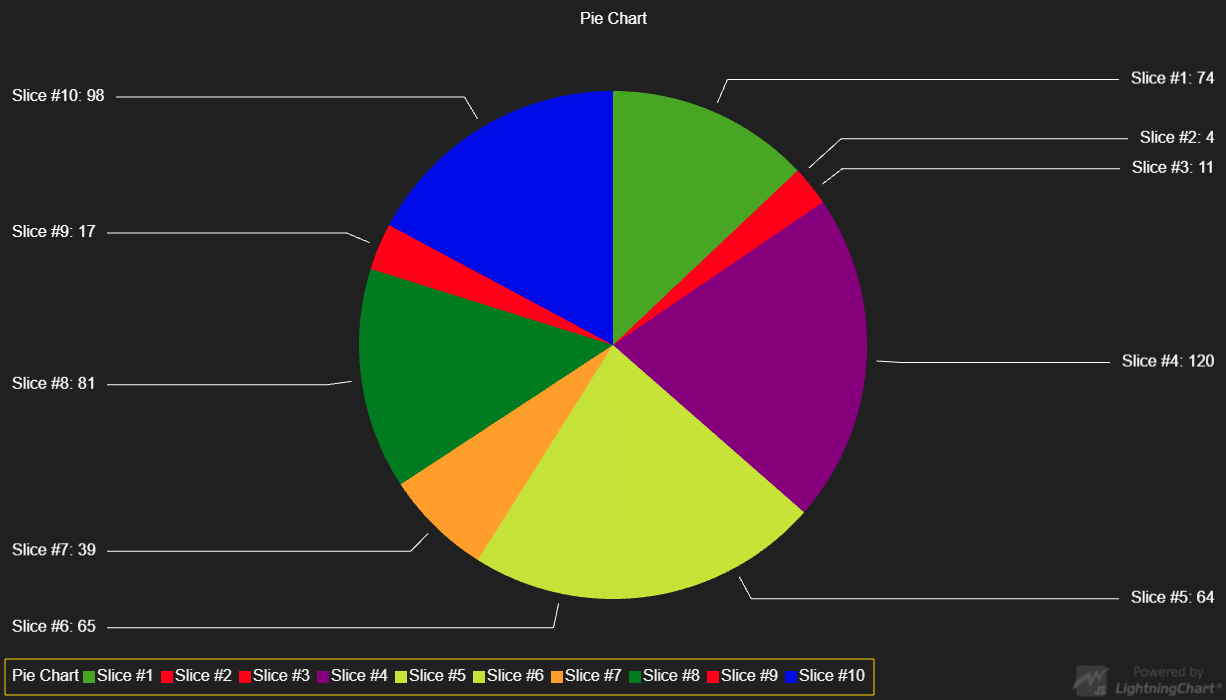
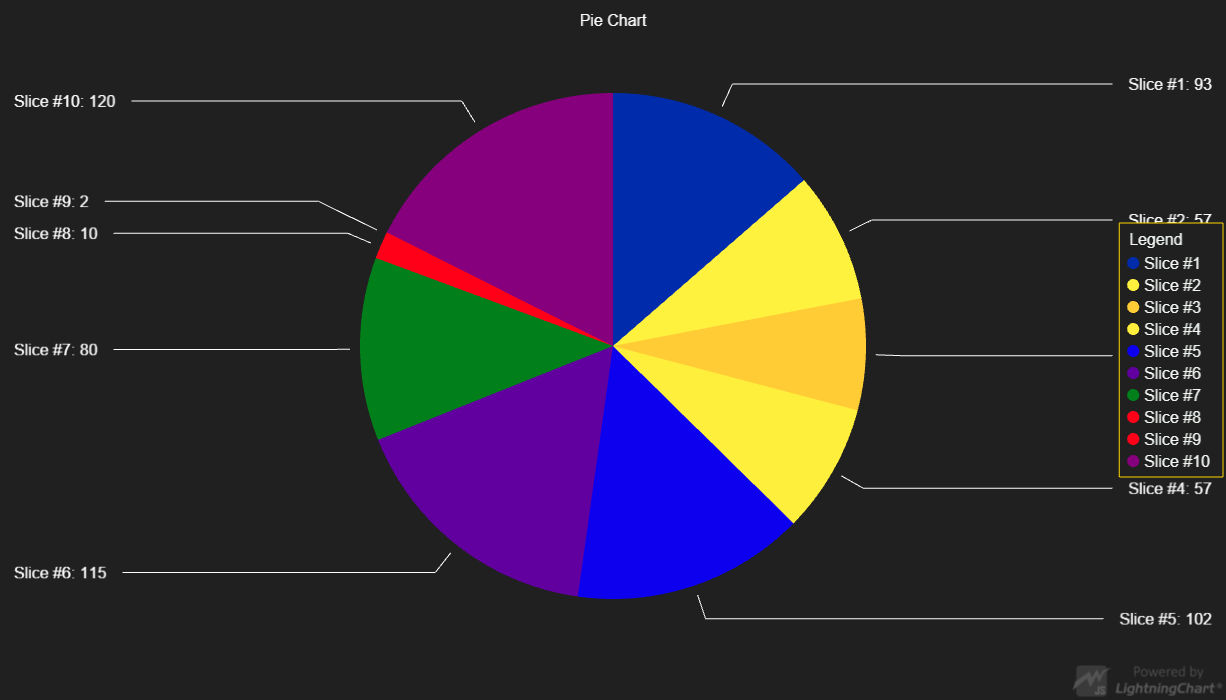
LCJS 3.0.0

diff --git a/src/index.js b/src/index.js
@@ -55,9 +55,6 @@ const slices = data.map((item) => pie.addSlice(item.name, item.value))
 // Add LegendBox
 pie
     .addLegendBox(LegendBoxBuilders.VerticalLegendBox)
-    .setPosition({ x: 0, y: 0 })
-    .setOrigin({ x: -1, y: -1 })
-    .setMargin({ bottom: 5, left: 5 })
     .add(pie)
 
 // 2 seconds after the example has loaded, change the values of each slice.

diff --git a/README.md b/README.md
@@ -83,7 +83,7 @@ Direct developer email support can be purchased through a [Support Plan][4] or b
 © Arction Ltd 2009-2020. All rights reserved.
 
 
-[Pie chart]: https://www.arction.com/lightningchart-js-api-documentation/v2.2.0/classes/piechart.html
-[Pie Slice label formatter]: https://www.arction.com/lightningchart-js-api-documentation/v2.2.0/globals.html#slicelabelformatter
-[Lookup table]: https://www.arction.com/lightningchart-js-api-documentation/v2.2.0/classes/lut.html
+[Pie chart]: https://www.arction.com/lightningchart-js-api-documentation/v3.0.0/classes/piechart.html
+[Pie Slice label formatter]: https://www.arction.com/lightningchart-js-api-documentation/v3.0.0/globals.html#slicelabelformatter
+[Lookup table]: https://www.arction.com/lightningchart-js-api-documentation/v3.0.0/classes/lut.html
 
